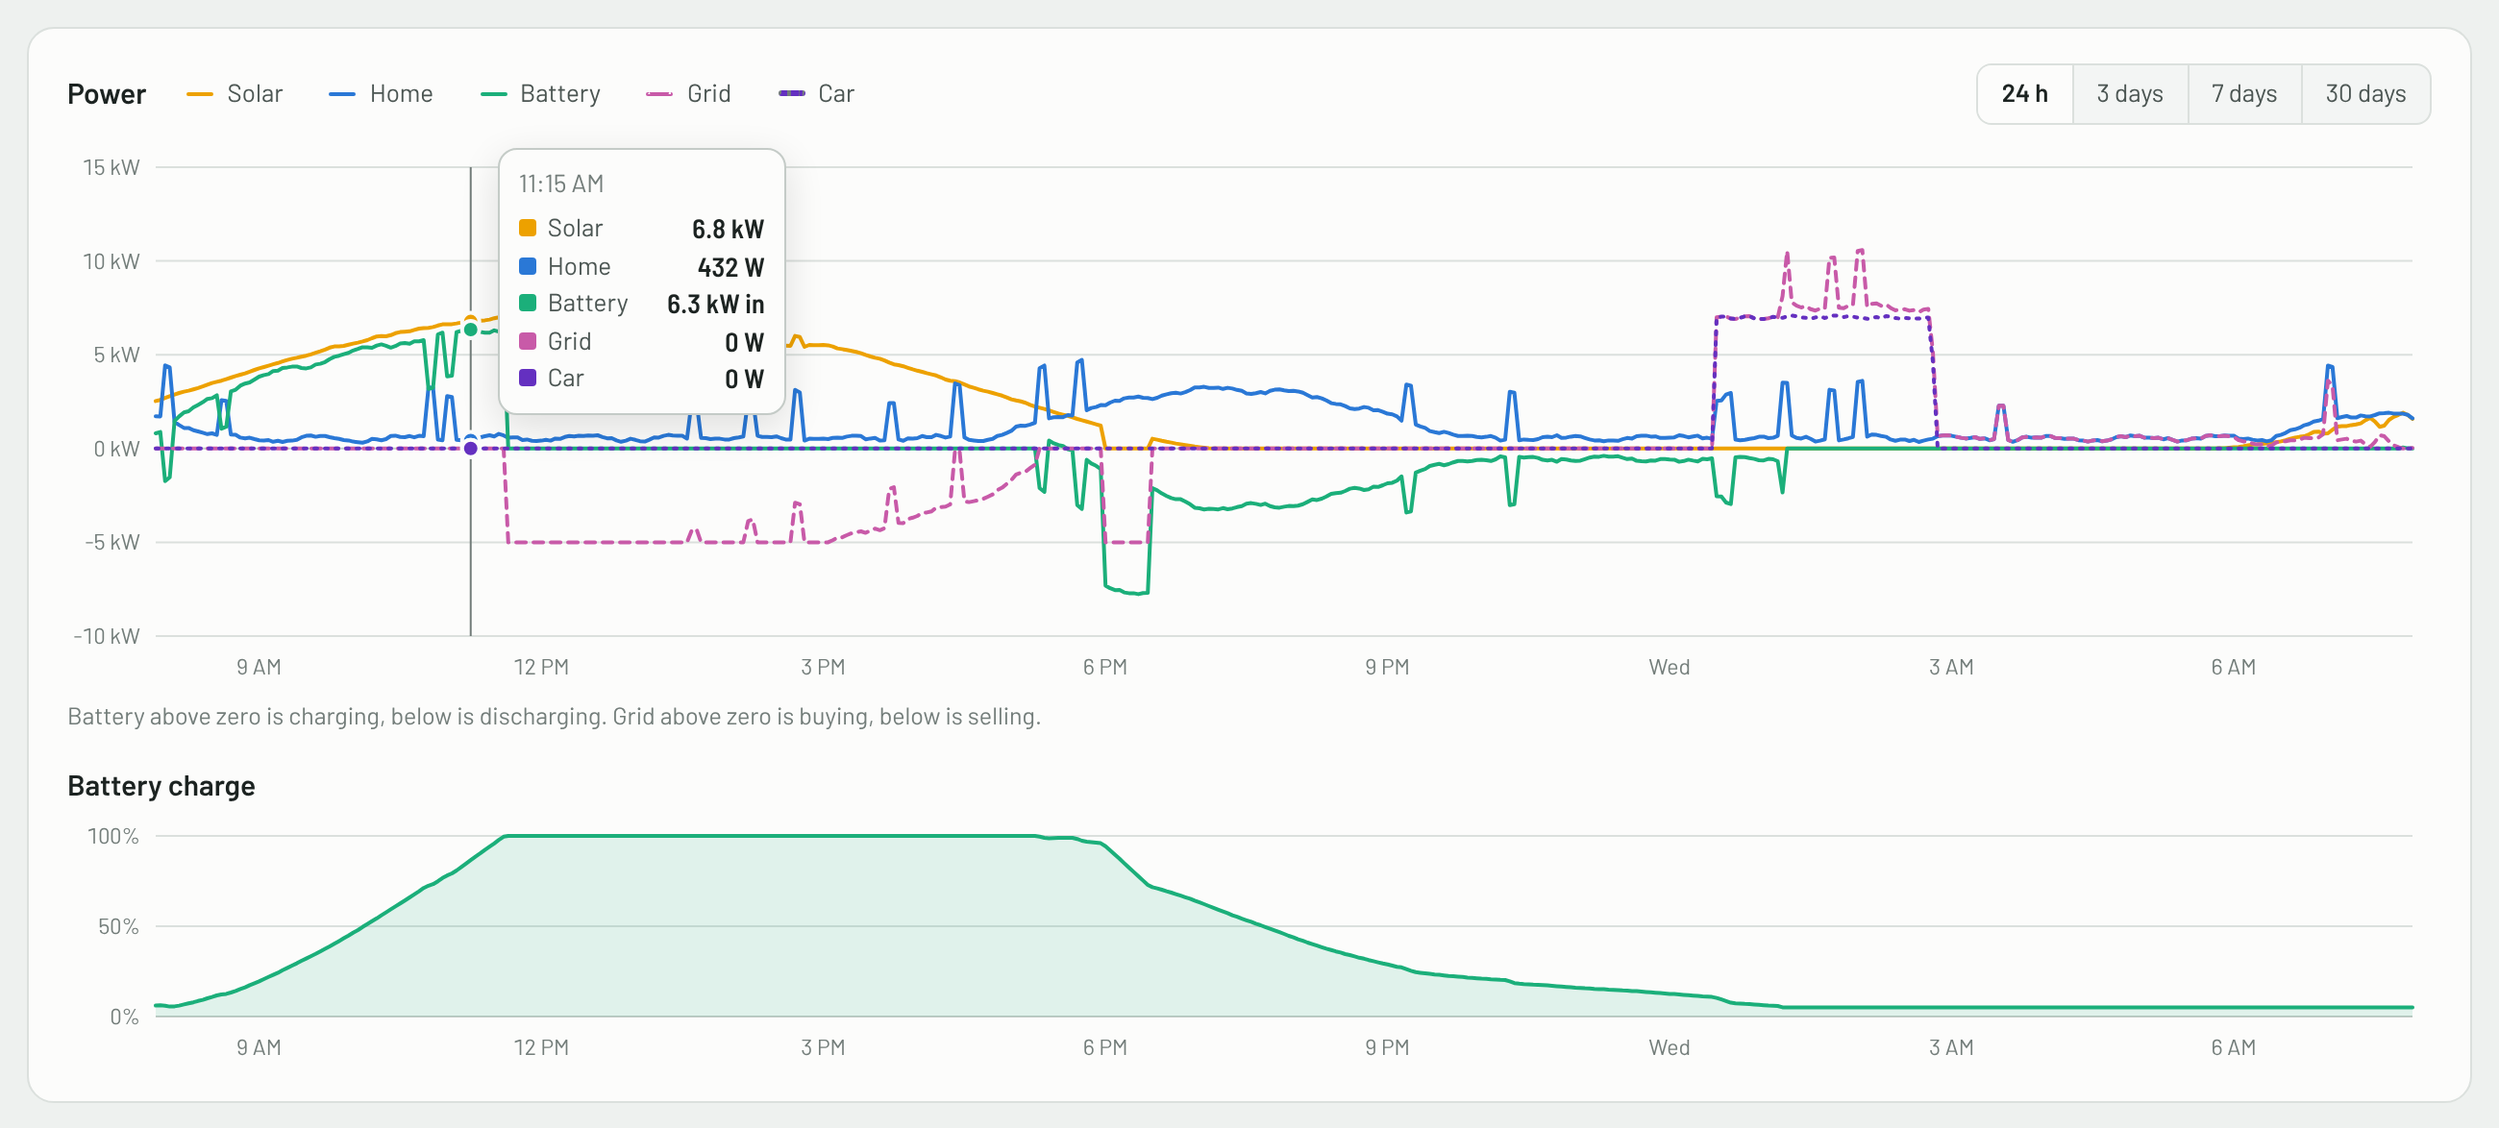
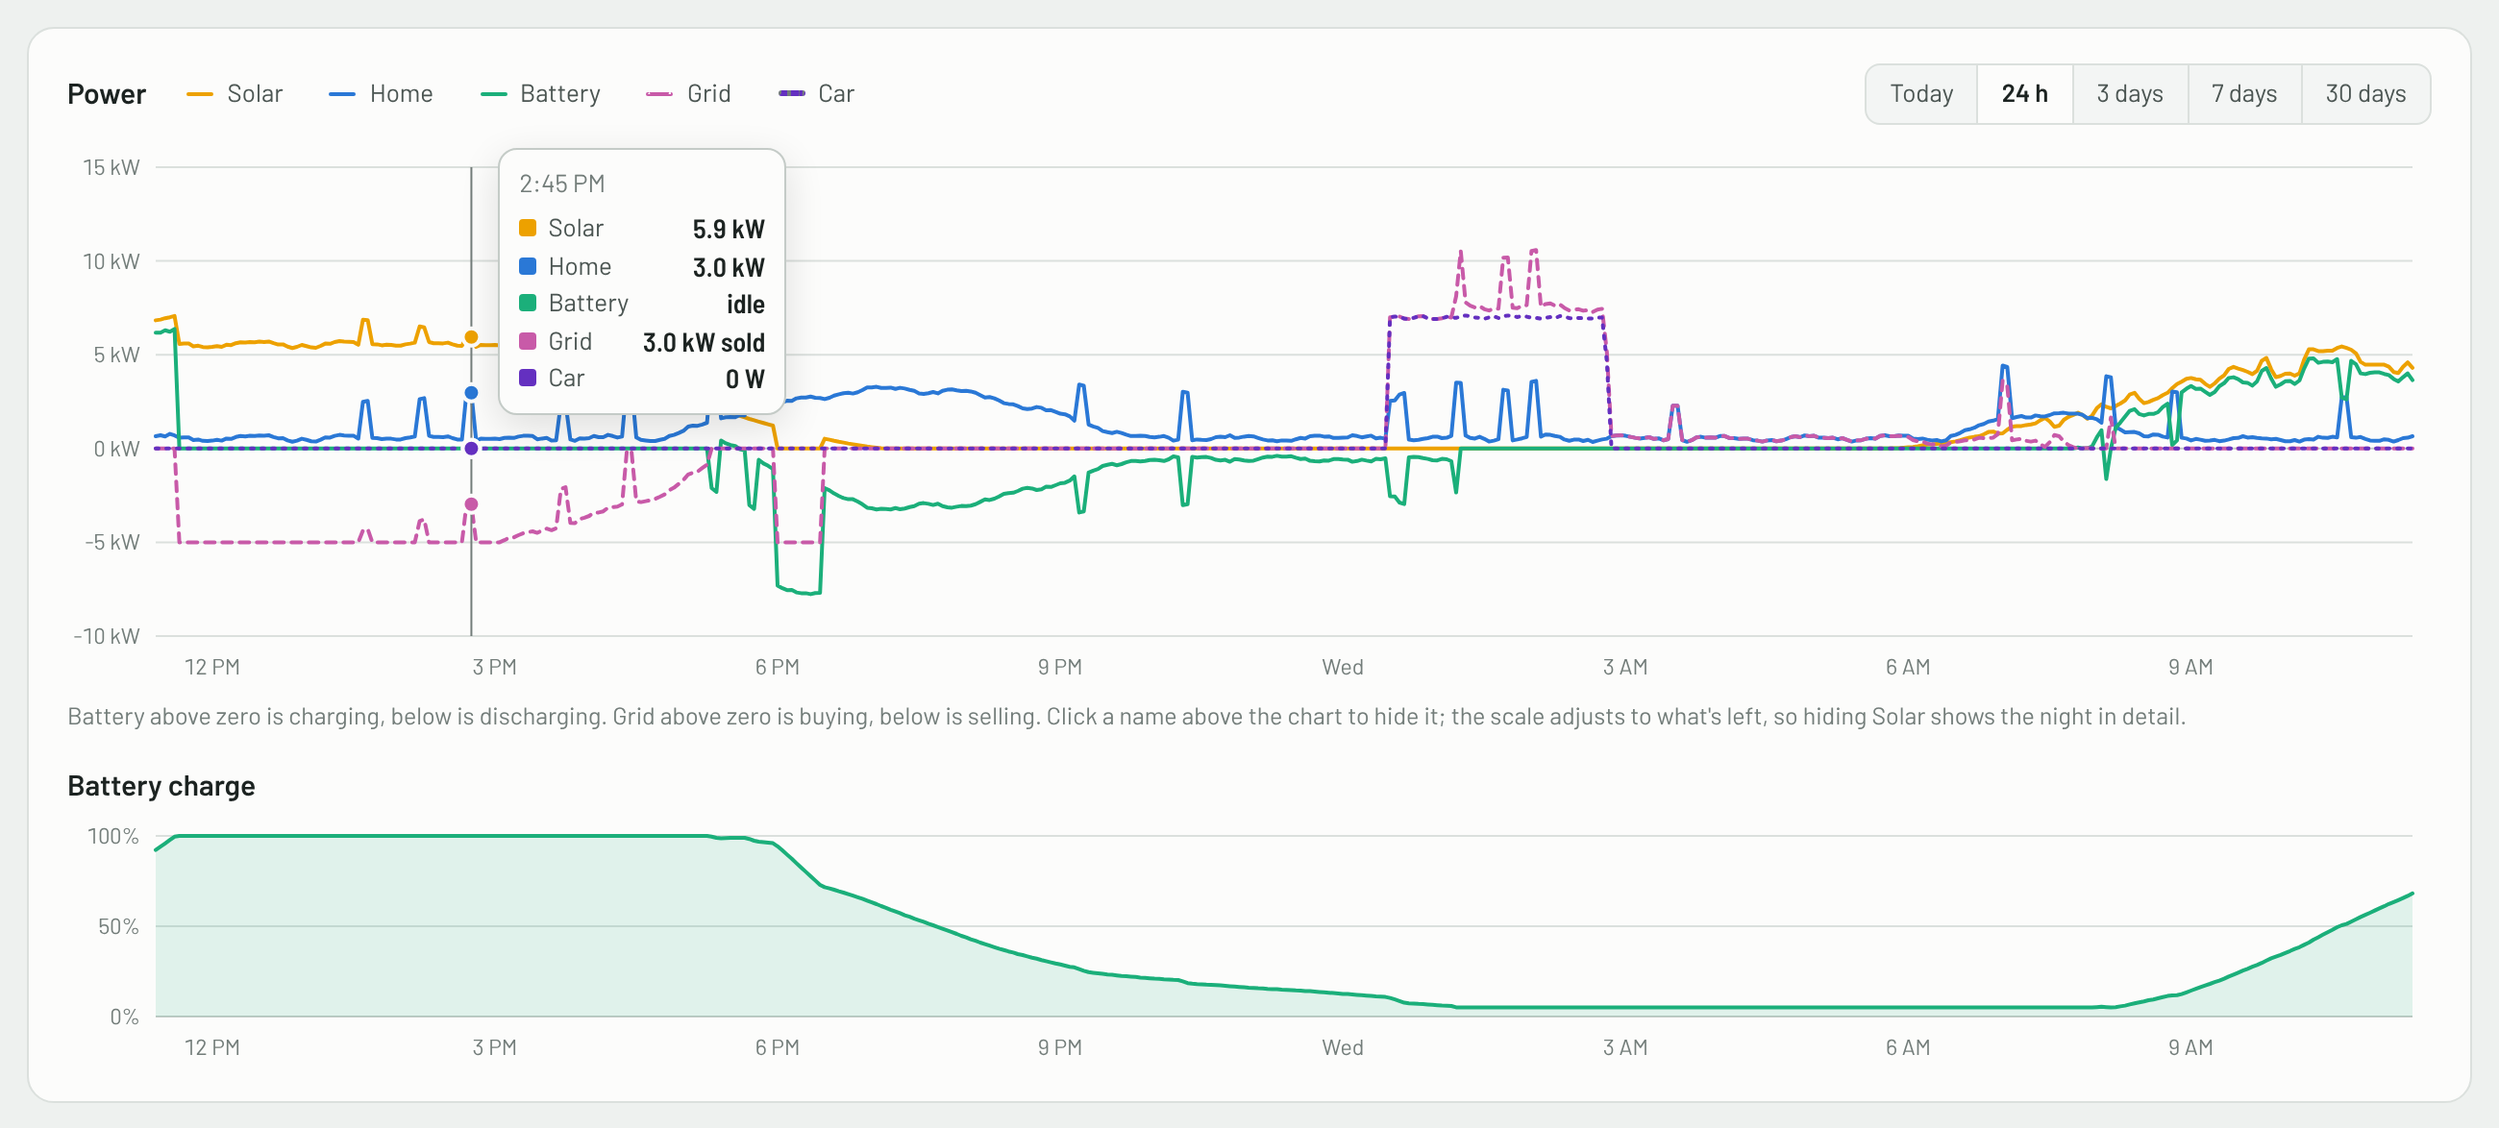
Daylight view for solar strings, Today range for the power chart
Solar strings default to sunrise-to-sunset: Today runs to the expected sunset,
3 and 7 days fold the nights out so each day sits side by side. Daylight is
taken from when the strings start and stop producing, so it follows the
seasons with no location setting. Line charts gain a windows option for the
folded axis. The power chart gets a Today range (midnight to now).

Claude-Session: https://claude.ai/code/session_015nhbUDYGJqnTyF2hbuQFnR

diff --git a/web/dashboard.js b/web/dashboard.js
@@ -397,6 +397,14 @@
   }
   buildLegend();
 
+  let histToday = false;
+  const midnightTs = () => { const d = new Date(); d.setHours(0, 0, 0, 0); return d.getTime() / 1000; };
+  function trimTo(h, since) {  // drop a bucket that started before midnight
+    const i = h.t.findIndex((t) => t >= since);
+    const out = {};
+    for (const k of Object.keys(h)) if (Array.isArray(h[k])) out[k] = i < 0 ? [] : h[k].slice(i);
+    return out;
+  }
   function tipTitle(t) {
     return new Date(t * 1000).toLocaleString([], hours > 30
       ? { weekday: "short", day: "numeric", hour: "numeric", minute: "2-digit" }
@@ -425,11 +433,18 @@
     });
   }
   async function loadHistory() {
-    try { historyData = await S.fetchJSON(`/api/history?hours=${hours}`); drawHistory(); } catch (e) { /* status banner covers it */ }
+    // "Today" runs from midnight; the API's buckets then cover just today
+    const h = histToday ? Math.max(1, (Date.now() / 1000 - midnightTs()) / 3600) : hours;
+    try {
+      historyData = await S.fetchJSON(`/api/history?hours=${h.toFixed(3)}`);
+      if (histToday) historyData = { ...historyData, ...trimTo(historyData, midnightTs()) };
+      drawHistory();
+    } catch (e) { /* status banner covers it */ }
   }
   $("range").addEventListener("click", (e) => {
     const b = e.target.closest("button"); if (!b) return;
-    hours = +b.dataset.h;
+    histToday = b.dataset.h === "today";
+    hours = histToday ? 24 : +b.dataset.h;
     $("range").querySelectorAll("button").forEach((x) => x.setAttribute("aria-pressed", x === b ? "true" : "false"));
     loadHistory();
   });
@@ -512,6 +527,33 @@
   const pvStyle = (i) => ({ color: PV_COLORS[i % 4], dash: PV_DASHES[(i + Math.floor(i / 4)) % 4] });
   const PV_MEASURE = { w: ["Power", (v) => S.kw(v)], v: ["Voltage", (v) => `${Math.round(v)} V`], a: ["Current", (v) => `${v.toFixed(1)} A`] };
   let pvData = null, pvHours = 24, pvMeasure = "w";
+  let pvDaylight = S.store.get("sigen.pvDaylight") !== "0";
+  const dayKey = (ts) => new Date(ts * 1000).toDateString();
+  const midnight = (ts, daysBack = 0) => { const d = new Date(ts * 1000); d.setHours(0, 0, 0, 0); d.setDate(d.getDate() - daysBack); return d.getTime() / 1000; };
+
+  // Sunrise-to-sunset windows, one per day, taken from the strings themselves: a bucket counts
+  // as daylight once any string shows voltage or power. That follows the seasons, the roof's
+  // own horizon and shading, with no location setting. Today's sunset is estimated from
+  // yesterday's until it actually happens.
+  function daylightWindows(d) {
+    const ids = Object.keys(d.strings || {}), b = d.bucket_seconds || 60, pad = 20 * 60, now = Date.now() / 1000;
+    const days = new Map();
+    d.t.forEach((t, i) => {
+      const lit = ids.some((n) => (d.strings[n].v[i] || 0) > 20 || (d.strings[n].w[i] || 0) > 5);
+      if (!lit) return;
+      const k = dayKey(t), w = days.get(k);
+      if (!w) days.set(k, [t, t + b]); else w[1] = t + b;
+    });
+    const wins = [...days.values()].map(([a, z]) => [a - pad, z + pad]);
+    const last = wins[wins.length - 1];
+    if (last && dayKey(last[0]) === dayKey(now) && last[1] >= now - 3 * b - pad) {
+      // still daylight: stretch to the expected sunset so the rest of the day shows as to come
+      const prev = wins[wins.length - 2];
+      const expected = prev && dayKey(prev[0]) !== dayKey(now) ? prev[1] + Math.round((midnight(now) - midnight(prev[0])) / 86400) * 86400 : 0;
+      last[1] = Math.max(last[1], expected, now + b);
+    }
+    return wins;
+  }
   const pvHidden = new Set();
   const swatch = (st) => el("svg", { class: "swl", width: 22, height: 8, "aria-hidden": "true" },
     el("line", { x1: 1, x2: 21, y1: 4, y2: 4, stroke: st.color, "stroke-width": 2.5, "stroke-linecap": "round", "stroke-dasharray": st.dash }));
@@ -537,11 +579,19 @@
     const [label, fmt] = PV_MEASURE[pvMeasure];
     const series = ids.map((n, i) => ({ key: n, label: `PV${n}`, ...pvStyle(i), values: d.strings[n][pvMeasure] }));
     const hidden = new Set([...pvHidden]);
+    const ndays = Math.round(pvHours / 24);
+    let windows = null;
+    if (pvDaylight) {
+      windows = daylightWindows(d).slice(-ndays);
+      if (ndays === 1 && windows.length && dayKey(windows[0][0]) !== dayKey(Date.now() / 1000)) windows = windows.slice(-1); // before sunrise: yesterday
+    }
+    $("pv-range-1").textContent = pvDaylight ? "Today" : "24 h";
     C.lineChart($("pv-chart"), {
       t: d.t, series, hidden, height: 250, gapSeconds: d.bucket_seconds * 5, yMin: 0,
+      windows: windows && windows.length ? windows : null, markerT: pvDaylight ? Date.now() / 1000 : null, markerLabel: "Now",
       yFmt: pvMeasure === "w" ? S.kwAxis : pvMeasure === "v" ? (v) => `${v} V` : (v) => `${v} A`,
       tipFmt: (v) => (v == null ? "–" : fmt(v)),
-      tipTitle: (t) => new Date(t * 1000).toLocaleString([], pvHours > 30
+      tipTitle: (t) => new Date(t * 1000).toLocaleString([], pvHours > 30 || dayKey(t) !== dayKey(Date.now() / 1000)
         ? { weekday: "short", day: "numeric", hour: "numeric", minute: "2-digit" } : { hour: "numeric", minute: "2-digit" }),
       ariaLabel: `${label} of each PV string over time`,
     });
@@ -559,8 +609,21 @@
     });
   }
   async function loadStrings() {
-    try { pvData = await S.fetchJSON(`/api/string-history?hours=${pvHours}`); drawStrings(); } catch (e) { /* banner */ }
+    // Daylight view: whole calendar days (plus yesterday, for today's expected sunset)
+    const now = Date.now() / 1000, days = Math.round(pvHours / 24);
+    const hrs = pvDaylight ? Math.ceil((now - midnight(now, days)) / 3600) : pvHours;
+    try { pvData = await S.fetchJSON(`/api/string-history?hours=${hrs}`); drawStrings(); } catch (e) { /* banner */ }
   }
+  (function initDaylight() {
+    $("pv-hours").querySelectorAll("button").forEach((x) => x.setAttribute("aria-pressed", (x.dataset.d === "1") === pvDaylight ? "true" : "false"));
+  })();
+  $("pv-hours").addEventListener("click", (e) => {
+    const b = e.target.closest("button"); if (!b) return;
+    pvDaylight = b.dataset.d === "1";
+    S.store.set("sigen.pvDaylight", pvDaylight ? "1" : "0");
+    $("pv-hours").querySelectorAll("button").forEach((x) => x.setAttribute("aria-pressed", x === b ? "true" : "false"));
+    loadStrings();
+  });
   $("pv-range").addEventListener("click", (e) => {
     const b = e.target.closest("button"); if (!b) return;
     pvHours = +b.dataset.h;

diff --git a/web/charts.js b/web/charts.js
@@ -56,7 +56,10 @@
 
   /**
    * opts: { t:[epoch s], series:[{key,label,color,values,dash}], hidden:Set, height,
-   *         yFmt(v)->string, tipFmt(v)->string, yMin, yMax, gapSeconds, tipTitle(t) }
+   *         yFmt(v)->string, tipFmt(v)->string, yMin, yMax, gapSeconds, tipTitle(t),
+   *         windows:[[start,end],...] }
+   * windows: show only these time ranges, side by side with a narrow break between them
+   * (used to fold the nights out of the solar charts). Points outside them are skipped.
    */
   function lineChart(wrap, opts) {
     wrap.innerHTML = "";
@@ -76,12 +79,23 @@
     }
     const ticks = opts.yTicks || niceTicks(lo, hi, opts.tickCount || 5);
     lo = Math.min(lo, ticks[0]); hi = Math.max(hi, ticks[ticks.length - 1]);
-    const t0 = t[0], t1 = Math.max(opts.stepEnd || 0, t[t.length - 1] || t0 + 1);
-    const x = (v) => m.l + ((v - t0) / Math.max(1, t1 - t0)) * (W - m.l - m.r);
+    const wins = (opts.windows || []).filter((w) => w[1] > w[0]);
+    const t0 = wins.length ? wins[0][0] : t[0];
+    const t1 = wins.length ? wins[wins.length - 1][1] : Math.max(opts.stepEnd || 0, t[t.length - 1] || t0 + 1);
+    const BREAK = wins.length > 1 ? 14 : 0;
+    const plotW = W - m.l - m.r - BREAK * Math.max(0, wins.length - 1);
+    const winSpan = wins.reduce((a, w) => a + (w[1] - w[0]), 0);
+    const winX = [];  // left edge of each window in px
+    { let acc = m.l; for (const w of wins) { winX.push(acc); acc += (w[1] - w[0]) / winSpan * plotW + BREAK; } }
+    const winOf = (v) => { for (let k = 0; k < wins.length; k++) if (v >= wins[k][0] && v <= wins[k][1]) return k; return -1; };
+    const x = wins.length
+      ? (v) => { const k = winOf(v); if (k < 0) return NaN; return winX[k] + (v - wins[k][0]) / winSpan * plotW; }
+      : (v) => m.l + ((v - t0) / Math.max(1, t1 - t0)) * (W - m.l - m.r);
+    const inView = (v) => !wins.length || winOf(v) >= 0;
     const y = (v) => m.t + (1 - (v - lo) / (hi - lo || 1)) * (H - m.t - m.b);
 
     const svg = el("svg", { viewBox: `0 0 ${W} ${H}`, height: H, role: "img", "aria-label": opts.ariaLabel || "Chart" });
-    if (opts.markerT != null && opts.markerT > t0 && opts.markerT < t1) {
+    if (opts.markerT != null && opts.markerT > t0 && opts.markerT < t1 && inView(opts.markerT)) {
       const xm = x(opts.markerT);
       svg.append(el("rect", { class: "future", x: xm, y: m.t, width: W - m.r - xm, height: H - m.t - m.b }));
     }
@@ -89,20 +103,30 @@
       svg.append(el("line", { class: tv === 0 ? "zero" : "gridline", x1: m.l, x2: W - m.r, y1: y(tv), y2: y(tv) }));
       svg.append(el("text", { class: "axis-label", x: m.l - 8, y: y(tv) + 4, "text-anchor": "end", text: opts.yFmt ? opts.yFmt(tv) : tv }));
     }
-    if (opts.markerT != null && opts.markerT > t0 && opts.markerT < t1) {
+    if (opts.markerT != null && opts.markerT > t0 && opts.markerT < t1 && inView(opts.markerT)) {
       const xm = x(opts.markerT);
       svg.append(el("line", { class: "now-line", x1: xm, x2: xm, y1: m.t, y2: H - m.b }));
       svg.append(el("text", { class: "now-label", x: xm + 5, y: m.t + 12, text: opts.markerLabel || "Now" }));
     }
-    for (const tk of timeTicks(t0, t1, Math.max(3, Math.floor((W - m.l) / 62)))) {
-      svg.append(el("text", { class: "axis-label", x: x(tk.t), y: H - 6, "text-anchor": "middle", text: tk.label }));
+    if (wins.length > 1) {
+      // one label per window (the day), and a shaded break between windows
+      wins.forEach((w, k) => {
+        const wx = winX[k], ww = (w[1] - w[0]) / winSpan * plotW;
+        if (k > 0) svg.append(el("rect", { class: "fold", x: wx - BREAK + 3, y: m.t, width: BREAK - 6, height: H - m.t - m.b, rx: 2 }));
+        if (ww > 34) svg.append(el("text", { class: "axis-label", x: wx + ww / 2, y: H - 6, "text-anchor": "middle",
+          text: new Date((w[0] + w[1]) / 2 * 1000).toLocaleDateString([], ww > 90 ? { weekday: "short", day: "numeric" } : { weekday: "short" }) }));
+      });
+    } else {
+      for (const tk of timeTicks(t0, t1, Math.max(3, Math.floor((W - m.l) / 62)))) {
+        svg.append(el("text", { class: "axis-label", x: x(tk.t), y: H - 6, "text-anchor": "middle", text: tk.label }));
+      }
     }
     const gap = opts.gapSeconds || Infinity;
     for (const s of visible) {
       let d = "", pen = false;
       for (let i = 0; i < t.length; i++) {
-        const v = s.values[i];
-        if (v == null || (i > 0 && t[i] - t[i - 1] > gap)) { pen = false; if (v == null) continue; }
+        const v = inView(t[i]) ? s.values[i] : null;
+        if (v == null || (i > 0 && (t[i] - t[i - 1] > gap || winOf(t[i]) !== winOf(t[i - 1])))) { pen = false; if (v == null) continue; }
         if (pen && opts.stepped) d += "H" + x(t[i]).toFixed(1);
         d += (pen ? "L" : "M") + x(t[i]).toFixed(1) + "," + y(v).toFixed(1);
         pen = true;
@@ -143,14 +167,20 @@
       tipPosition(tip, wrap, xi, 0);
     }
     function nearest(px) {
-      const tv = t0 + ((px - m.l) / (W - m.l - m.r)) * (t1 - t0);
+      let tv = t0 + ((px - m.l) / (W - m.l - m.r)) * (t1 - t0);
+      if (wins.length) {  // invert the folded axis
+        let k = wins.length - 1;
+        while (k > 0 && px < winX[k] - BREAK / 2) k--;
+        tv = Math.max(wins[k][0], Math.min(wins[k][1], wins[k][0] + (px - winX[k]) / plotW * winSpan));
+      }
       let lo2 = 0, hi2 = t.length - 1;
       while (hi2 - lo2 > 1) { const mid = (lo2 + hi2) >> 1; (t[mid] < tv ? (lo2 = mid) : (hi2 = mid)); }
       return Math.abs(t[lo2] - tv) < Math.abs(t[hi2] - tv) ? lo2 : hi2;
     }
     hit.addEventListener("pointermove", (e) => {
       const r = svg.getBoundingClientRect();
-      show(nearest(((e.clientX - r.left) / r.width) * W));
+      const i = nearest(((e.clientX - r.left) / r.width) * W);
+      if (inView(t[i])) show(i);
     });
     hit.addEventListener("pointerleave", () => { hover.style.display = "none"; tip.style.display = "none"; });
   }

diff --git a/web/index.html b/web/index.html
@@ -184,6 +184,7 @@
         <div class="legend" id="legend"></div>
         <span class="spacer"></span>
         <div class="seg" id="range" role="group" aria-label="Time range">
+          <button type="button" data-h="today" aria-pressed="false" title="Since midnight">Today</button>
           <button type="button" data-h="24" aria-pressed="true">24 h</button>
           <button type="button" data-h="72" aria-pressed="false">3 days</button>
           <button type="button" data-h="168" aria-pressed="false">7 days</button>
@@ -191,7 +192,8 @@
         </div>
       </div>
       <div class="chart" id="power-chart"></div>
-      <p class="chart-note">Battery above zero is charging, below is discharging. Grid above zero is buying, below is selling.</p>
+      <p class="chart-note">Battery above zero is charging, below is discharging. Grid above zero is buying, below is selling.
+        Click a name above the chart to hide it; the scale adjusts to what's left, so hiding Solar shows the night in detail.</p>
       <div class="panel-head" style="margin:18px 0 6px"><h2>Battery charge</h2></div>
       <div class="chart" id="soc-chart"></div>
     </section>
@@ -206,8 +208,12 @@
           <button type="button" data-m="v" aria-pressed="false">Voltage</button>
           <button type="button" data-m="a" aria-pressed="false">Current</button>
         </div>
+        <div class="seg" id="pv-hours" role="group" aria-label="Hours shown">
+          <button type="button" data-d="1" aria-pressed="true" title="Sunrise to sunset, from when the strings start and stop producing">Daylight</button>
+          <button type="button" data-d="0" aria-pressed="false">All hours</button>
+        </div>
         <div class="seg" id="pv-range" role="group" aria-label="Time range">
-          <button type="button" data-h="24" aria-pressed="true">24 h</button>
+          <button type="button" data-h="24" aria-pressed="true" id="pv-range-1">Today</button>
           <button type="button" data-h="72" aria-pressed="false">3 days</button>
           <button type="button" data-h="168" aria-pressed="false">7 days</button>
         </div>
@@ -215,7 +221,8 @@
       <div class="chart" id="pv-chart"></div>
       <table class="strings pv-today" id="pv-today"></table>
       <p class="chart-note">Strings facing east peak in the morning, north around midday and west in the afternoon.
-        Voltage depends mostly on how many panels are in the string.</p>
+        Voltage depends mostly on how many panels are in the string. Daylight hides the nights; sunrise and sunset
+        come from when the strings start and stop producing, so they follow the seasons.</p>
     </section>
 
     <section class="panel span-8" aria-labelledby="daily-h">

diff --git a/web/style.css b/web/style.css
@@ -333,3 +333,4 @@ dialog .row { display: flex; gap: 8px; justify-content: flex-end; margin-top: 16
 .ev-links a:hover { text-decoration: underline; }
 .ev-sessions th:nth-child(n+2), .ev-sessions td:nth-child(n+2) { padding-left: 10px; }
 @media (max-width: 560px) { .ev-sessions .hide-sm { display: none; } }
+.chart .fold { fill: var(--surface-2); stroke: var(--rule); stroke-width: 1; }

diff --git a/CHANGELOG.md b/CHANGELOG.md
@@ -19,6 +19,13 @@ update; the Docker image is tagged with the same version.
 - The desktop widget shows when the car is plugged in or charging
 - Simulator includes a charger and a car so the panel can be tried without one
 
+### Charts
+- Solar strings: a **Daylight** view (now the default) that shows sunrise to sunset only.
+  Today runs to the expected sunset; 3 and 7 days fold the nights away so each day's curves
+  sit side by side. Sunrise and sunset come from when the strings start and stop producing,
+  so they follow the seasons. **All hours** brings back the full timeline.
+- Power chart: a **Today** range, from midnight to now
+
 ## 1.2.0
 
 The first public release.

diff --git a/README.md b/README.md
@@ -96,7 +96,8 @@ read any moment.
 </picture>
 
 **Solar strings**: power, voltage and current for each PV string your inverter reports,
-with each string's energy, share and peak for the day. Handy for spotting shading or a
+sunrise to sunset with the nights folded away, plus each string's energy, share and peak
+for the day. Handy for spotting shading or a
 faulty panel, and for telling which roof face is on which string.
 
 <picture>
